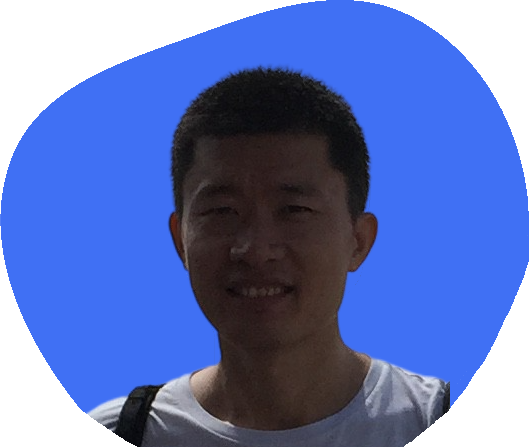
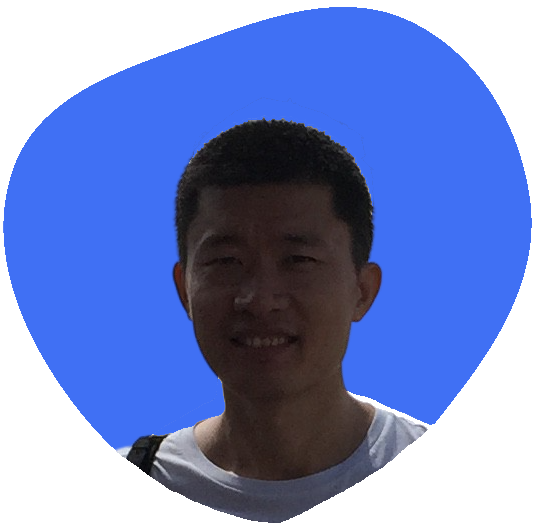
modify profile image

diff --git a/src/containers/Home/index.module.scss b/src/containers/Home/index.module.scss
@@ -44,13 +44,13 @@
         // display: inline;
         // width: 265px;
         height: 100%;
-        // width: 100%;
+        width: 100%;
         
 
         img {
             float:right;
-            // height: 100%;
-            width: 95%;
+            height: 100%;
+            // width: 95%;
             // margin: var(--mb-4);
             // width: calc(100% - 2rem);
             // align-self: flex-end;
